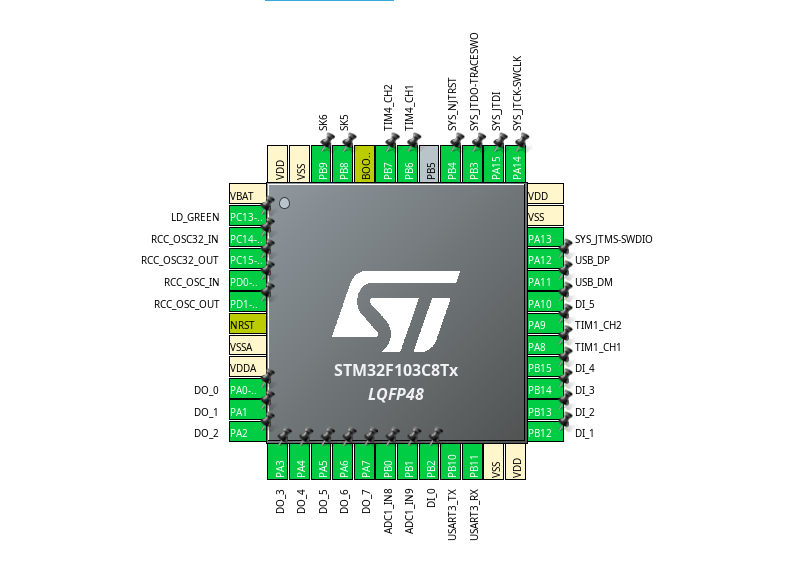
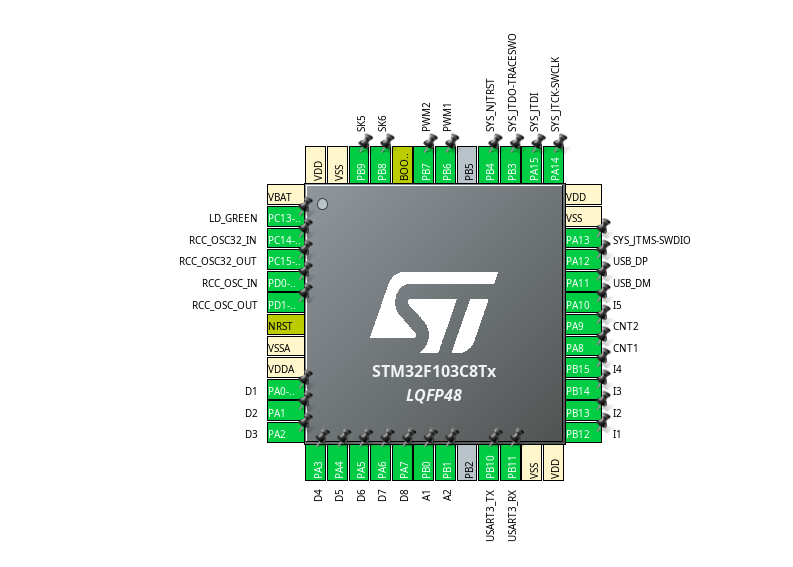
rename gpio pins

Changed region(s): [[0.1816, 0.06, 0.8777, 0.9594], [0.4237, 0.4797, 0.6356, 0.7196]]

diff --git a/Core/Src/main.c b/Core/Src/main.c
@@ -35,7 +35,7 @@
 /* Private define ------------------------------------------------------------*/
 /* USER CODE BEGIN PD */
 extern USBD_HandleTypeDef hUsbDeviceFS;
-int cardAddr=0; // card address
+uint8_t cardAddr=0; // card address
 
 /* USER CODE END PD */
 
@@ -83,7 +83,7 @@ static void MX_ADC1_Init(void);
 #endif
 
 void printByte(unsigned char);
-void writeDigOut(unsigned char *);
+void writeDigital(unsigned char *);
 
 /* USER CODE END PFP */
 
@@ -150,12 +150,20 @@ int main(void)
   {
   	cardAddr |= 0x02;
   }
-  txBuffer[BOARD_ID] = cardAddr+1; // fill the buffer with the current card address
+  txBuffer[BOARD_ID] = 0x01; //cardAddr+1; // fill the buffer with the current card address
   printf("\n\rcard address: %u\n\r", cardAddr);
+
+  // Init timer 1 for input capture
+  // With HSE=8.0MHz, PLLmul=9, AHBpresc=1, sysclk=72MHz
+  // prescaler=div1 (setting=0), tim1clk=72MHz, ftim1=72000/(7199)=10.0014kHz
+  // 2 ms debounce → 20 ticks
+  // 10 ms debounce → 100 ticks
+  // 1000 ms debounce → 10 000 ticks
+  HAL_TIM_Base_Start(&htim1);
 
   // Init timer 4 for generating PWM (org. f k8055 is 23.43kHz)
   // With HSE=8.0MHz, PLLmul=9, AHBpresc=1, sysclk=72MHz
-  // prescaler=div2 (setting=1 !), tim1clk=36MHz, f_pwm=36000/(1023+1)=35.1563kHz
+  // prescaler=div2 (setting=1), tim1clk=36MHz, f_pwm=36000/(1023+1)=35.1563kHz
   // resolution: log(ARR+1)/log(2)=log(1023+1)/log(2)=10bit.
   HAL_TIM_Base_Start_IT(&htim4);
   HAL_TIM_PWM_Start_IT(&htim4, TIM_CHANNEL_1); // Start the PWM generation.
@@ -186,15 +194,15 @@ int main(void)
 			// set debounce, counter 2
 		}
 		else if (rxBufferUSB[CMD] == 3) {
-			// seset counter 1
+			// reset counter 1
 		}
 		else if (rxBufferUSB[CMD] == 4) {
-			// seset counter 2
+			// reset counter 2
 		}
 		else if (rxBufferUSB[CMD] == 5) {
 			// set analog and digital
 			digOut = rxBufferUSB[DOUT];
-			writeDigOut(&digOut); // write digital
+			writeDigital(&digOut); // write digital
 			anOut1 = rxBufferUSB[DAC1] << 2; // scale up to 10 bits.
 			__HAL_TIM_SET_COMPARE(&htim4, TIM_CHANNEL_1, anOut1); // write PWM1
 			anOut2 = rxBufferUSB[DAC2] << 2;
@@ -215,7 +223,12 @@ int main(void)
 		rxDataUsb = false;
 	}
 
-	txBuffer[DIN] = 0x00; // digital inputs
+	// digital inputs
+	txBuffer[DIN] = HAL_GPIO_ReadPin(I1_GPIO_Port, I1_Pin) << 5 |
+			HAL_GPIO_ReadPin(I2_GPIO_Port, I2_Pin) << 6 |
+			HAL_GPIO_ReadPin(I3_GPIO_Port, I3_Pin) |
+			HAL_GPIO_ReadPin(I4_GPIO_Port, I4_Pin) << 4 |
+			HAL_GPIO_ReadPin(I5_GPIO_Port, I5_Pin) << 8;
 
 	// Discontinuous scanning mode
 	HAL_ADC_Start(&hadc1); // Start ADC in polling mode
@@ -373,7 +386,7 @@ static void MX_TIM1_Init(void)
   htim1.Instance = TIM1;
   htim1.Init.Prescaler = 0;
   htim1.Init.CounterMode = TIM_COUNTERMODE_UP;
-  htim1.Init.Period = 65535;
+  htim1.Init.Period = 7199;
   htim1.Init.ClockDivision = TIM_CLOCKDIVISION_DIV1;
   htim1.Init.RepetitionCounter = 0;
   htim1.Init.AutoReloadPreload = TIM_AUTORELOAD_PRELOAD_DISABLE;
@@ -522,8 +535,8 @@ static void MX_GPIO_Init(void)
   HAL_GPIO_WritePin(LD_GREEN_GPIO_Port, LD_GREEN_Pin, GPIO_PIN_RESET);
 
   /*Configure GPIO pin Output Level */
-  HAL_GPIO_WritePin(GPIOA, DO_0_Pin|DO_1_Pin|DO_2_Pin|DO_3_Pin
-                          |DO_4_Pin|DO_5_Pin|DO_6_Pin|DO_7_Pin, GPIO_PIN_RESET);
+  HAL_GPIO_WritePin(GPIOA, D1_Pin|D2_Pin|D3_Pin|D4_Pin
+                          |D5_Pin|D6_Pin|D7_Pin|D8_Pin, GPIO_PIN_RESET);
 
   /*Configure GPIO pin : LD_GREEN_Pin */
   GPIO_InitStruct.Pin = LD_GREEN_Pin;
@@ -532,28 +545,32 @@ static void MX_GPIO_Init(void)
   GPIO_InitStruct.Speed = GPIO_SPEED_FREQ_LOW;
   HAL_GPIO_Init(LD_GREEN_GPIO_Port, &GPIO_InitStruct);
 
-  /*Configure GPIO pins : DO_0_Pin DO_1_Pin DO_2_Pin DO_3_Pin
-                           DO_4_Pin DO_5_Pin DO_6_Pin DO_7_Pin */
-  GPIO_InitStruct.Pin = DO_0_Pin|DO_1_Pin|DO_2_Pin|DO_3_Pin
-                          |DO_4_Pin|DO_5_Pin|DO_6_Pin|DO_7_Pin;
+  /*Configure GPIO pins : D1_Pin D2_Pin D3_Pin D4_Pin
+                           D5_Pin D6_Pin D7_Pin D8_Pin */
+  GPIO_InitStruct.Pin = D1_Pin|D2_Pin|D3_Pin|D4_Pin
+                          |D5_Pin|D6_Pin|D7_Pin|D8_Pin;
   GPIO_InitStruct.Mode = GPIO_MODE_OUTPUT_PP;
   GPIO_InitStruct.Pull = GPIO_NOPULL;
   GPIO_InitStruct.Speed = GPIO_SPEED_FREQ_LOW;
   HAL_GPIO_Init(GPIOA, &GPIO_InitStruct);
 
-  /*Configure GPIO pins : DI_0_Pin DI_1_Pin DI_2_Pin DI_3_Pin
-                           DI_4_Pin SK5_Pin SK6_Pin */
-  GPIO_InitStruct.Pin = DI_0_Pin|DI_1_Pin|DI_2_Pin|DI_3_Pin
-                          |DI_4_Pin|SK5_Pin|SK6_Pin;
+  /*Configure GPIO pins : I1_Pin I2_Pin I3_Pin I4_Pin */
+  GPIO_InitStruct.Pin = I1_Pin|I2_Pin|I3_Pin|I4_Pin;
+  GPIO_InitStruct.Mode = GPIO_MODE_INPUT;
+  GPIO_InitStruct.Pull = GPIO_PULLDOWN;
+  HAL_GPIO_Init(GPIOB, &GPIO_InitStruct);
+
+  /*Configure GPIO pin : I5_Pin */
+  GPIO_InitStruct.Pin = I5_Pin;
+  GPIO_InitStruct.Mode = GPIO_MODE_INPUT;
+  GPIO_InitStruct.Pull = GPIO_PULLDOWN;
+  HAL_GPIO_Init(I5_GPIO_Port, &GPIO_InitStruct);
+
+  /*Configure GPIO pins : SK6_Pin SK5_Pin */
+  GPIO_InitStruct.Pin = SK6_Pin|SK5_Pin;
   GPIO_InitStruct.Mode = GPIO_MODE_INPUT;
   GPIO_InitStruct.Pull = GPIO_PULLUP;
   HAL_GPIO_Init(GPIOB, &GPIO_InitStruct);
-
-  /*Configure GPIO pin : DI_5_Pin */
-  GPIO_InitStruct.Pin = DI_5_Pin;
-  GPIO_InitStruct.Mode = GPIO_MODE_INPUT;
-  GPIO_InitStruct.Pull = GPIO_NOPULL;
-  HAL_GPIO_Init(DI_5_GPIO_Port, &GPIO_InitStruct);
 
 /* USER CODE BEGIN MX_GPIO_Init_2 */
 /* USER CODE END MX_GPIO_Init_2 */
@@ -595,7 +612,7 @@ void printByte(unsigned char inByte)
 }
 
 
-void writeDigOut(unsigned char *byte)
+void writeDigital(unsigned char *byte)
 {
   // write at once. Only works for pins from the same port.
   GPIOA->BSRR = *byte					// Set bits

diff --git a/Core/Inc/main.h b/Core/Inc/main.h
@@ -61,38 +61,48 @@ void Error_Handler(void);
 /* Private defines -----------------------------------------------------------*/
 #define LD_GREEN_Pin GPIO_PIN_13
 #define LD_GREEN_GPIO_Port GPIOC
-#define DO_0_Pin GPIO_PIN_0
-#define DO_0_GPIO_Port GPIOA
-#define DO_1_Pin GPIO_PIN_1
-#define DO_1_GPIO_Port GPIOA
-#define DO_2_Pin GPIO_PIN_2
-#define DO_2_GPIO_Port GPIOA
-#define DO_3_Pin GPIO_PIN_3
-#define DO_3_GPIO_Port GPIOA
-#define DO_4_Pin GPIO_PIN_4
-#define DO_4_GPIO_Port GPIOA
-#define DO_5_Pin GPIO_PIN_5
-#define DO_5_GPIO_Port GPIOA
-#define DO_6_Pin GPIO_PIN_6
-#define DO_6_GPIO_Port GPIOA
-#define DO_7_Pin GPIO_PIN_7
-#define DO_7_GPIO_Port GPIOA
-#define DI_0_Pin GPIO_PIN_2
-#define DI_0_GPIO_Port GPIOB
-#define DI_1_Pin GPIO_PIN_12
-#define DI_1_GPIO_Port GPIOB
-#define DI_2_Pin GPIO_PIN_13
-#define DI_2_GPIO_Port GPIOB
-#define DI_3_Pin GPIO_PIN_14
-#define DI_3_GPIO_Port GPIOB
-#define DI_4_Pin GPIO_PIN_15
-#define DI_4_GPIO_Port GPIOB
-#define DI_5_Pin GPIO_PIN_10
-#define DI_5_GPIO_Port GPIOA
-#define SK5_Pin GPIO_PIN_8
-#define SK5_GPIO_Port GPIOB
-#define SK6_Pin GPIO_PIN_9
+#define D1_Pin GPIO_PIN_0
+#define D1_GPIO_Port GPIOA
+#define D2_Pin GPIO_PIN_1
+#define D2_GPIO_Port GPIOA
+#define D3_Pin GPIO_PIN_2
+#define D3_GPIO_Port GPIOA
+#define D4_Pin GPIO_PIN_3
+#define D4_GPIO_Port GPIOA
+#define D5_Pin GPIO_PIN_4
+#define D5_GPIO_Port GPIOA
+#define D6_Pin GPIO_PIN_5
+#define D6_GPIO_Port GPIOA
+#define D7_Pin GPIO_PIN_6
+#define D7_GPIO_Port GPIOA
+#define D8_Pin GPIO_PIN_7
+#define D8_GPIO_Port GPIOA
+#define A1_Pin GPIO_PIN_0
+#define A1_GPIO_Port GPIOB
+#define A2_Pin GPIO_PIN_1
+#define A2_GPIO_Port GPIOB
+#define I1_Pin GPIO_PIN_12
+#define I1_GPIO_Port GPIOB
+#define I2_Pin GPIO_PIN_13
+#define I2_GPIO_Port GPIOB
+#define I3_Pin GPIO_PIN_14
+#define I3_GPIO_Port GPIOB
+#define I4_Pin GPIO_PIN_15
+#define I4_GPIO_Port GPIOB
+#define CNT1_Pin GPIO_PIN_8
+#define CNT1_GPIO_Port GPIOA
+#define CNT2_Pin GPIO_PIN_9
+#define CNT2_GPIO_Port GPIOA
+#define I5_Pin GPIO_PIN_10
+#define I5_GPIO_Port GPIOA
+#define PWM1_Pin GPIO_PIN_6
+#define PWM1_GPIO_Port GPIOB
+#define PWM2_Pin GPIO_PIN_7
+#define PWM2_GPIO_Port GPIOB
+#define SK6_Pin GPIO_PIN_8
 #define SK6_GPIO_Port GPIOB
+#define SK5_Pin GPIO_PIN_9
+#define SK5_GPIO_Port GPIOB
 
 /* USER CODE BEGIN Private defines */
 enum epoutBytes { // incoming package bytes
@@ -116,6 +126,7 @@ enum epinBytes { // outgoing package bytes
 	CNT2_MSB,
 	CNT2_LSB
 };
+
 /* USER CODE END Private defines */
 
 #ifdef __cplusplus

diff --git a/Core/Src/stm32f1xx_hal_msp.c b/Core/Src/stm32f1xx_hal_msp.c
@@ -105,7 +105,7 @@ void HAL_ADC_MspInit(ADC_HandleTypeDef* hadc)
     PB0     ------> ADC1_IN8
     PB1     ------> ADC1_IN9
     */
-    GPIO_InitStruct.Pin = GPIO_PIN_0|GPIO_PIN_1;
+    GPIO_InitStruct.Pin = A1_Pin|A2_Pin;
     GPIO_InitStruct.Mode = GPIO_MODE_ANALOG;
     HAL_GPIO_Init(GPIOB, &GPIO_InitStruct);
 
@@ -137,7 +137,7 @@ void HAL_ADC_MspDeInit(ADC_HandleTypeDef* hadc)
     PB0     ------> ADC1_IN8
     PB1     ------> ADC1_IN9
     */
-    HAL_GPIO_DeInit(GPIOB, GPIO_PIN_0|GPIO_PIN_1);
+    HAL_GPIO_DeInit(GPIOB, A1_Pin|A2_Pin);
 
   /* USER CODE BEGIN ADC1_MspDeInit 1 */
 
@@ -168,7 +168,7 @@ void HAL_TIM_IC_MspInit(TIM_HandleTypeDef* htim_ic)
     PA8     ------> TIM1_CH1
     PA9     ------> TIM1_CH2
     */
-    GPIO_InitStruct.Pin = GPIO_PIN_8|GPIO_PIN_9;
+    GPIO_InitStruct.Pin = CNT1_Pin|CNT2_Pin;
     GPIO_InitStruct.Mode = GPIO_MODE_INPUT;
     GPIO_InitStruct.Pull = GPIO_NOPULL;
     HAL_GPIO_Init(GPIOA, &GPIO_InitStruct);
@@ -221,7 +221,7 @@ void HAL_TIM_MspPostInit(TIM_HandleTypeDef* htim)
     PB6     ------> TIM4_CH1
     PB7     ------> TIM4_CH2
     */
-    GPIO_InitStruct.Pin = GPIO_PIN_6|GPIO_PIN_7;
+    GPIO_InitStruct.Pin = PWM1_Pin|PWM2_Pin;
     GPIO_InitStruct.Mode = GPIO_MODE_AF_PP;
     GPIO_InitStruct.Speed = GPIO_SPEED_FREQ_LOW;
     HAL_GPIO_Init(GPIOB, &GPIO_InitStruct);
@@ -252,7 +252,7 @@ void HAL_TIM_IC_MspDeInit(TIM_HandleTypeDef* htim_ic)
     PA8     ------> TIM1_CH1
     PA9     ------> TIM1_CH2
     */
-    HAL_GPIO_DeInit(GPIOA, GPIO_PIN_8|GPIO_PIN_9);
+    HAL_GPIO_DeInit(GPIOA, CNT1_Pin|CNT2_Pin);
 
   /* USER CODE BEGIN TIM1_MspDeInit 1 */
 

diff --git a/README.md b/README.md
@@ -15,6 +15,7 @@ The K8055 communicates as a custom HID device with two end points and uses 8-byt
 - The Green (sometimes red or blue) LED connected to PC13 on the Blue Pill shows the USB connection status and USB activity
 - The K8032 has a serial debug interface for inspecting the incoming HID data packages.
 - The counter inputs no longer share the DI1 and DI2 inputs.
+- Using 5V tolerant inputs for digital inputs.
 
 To do:
 - counter inputs
